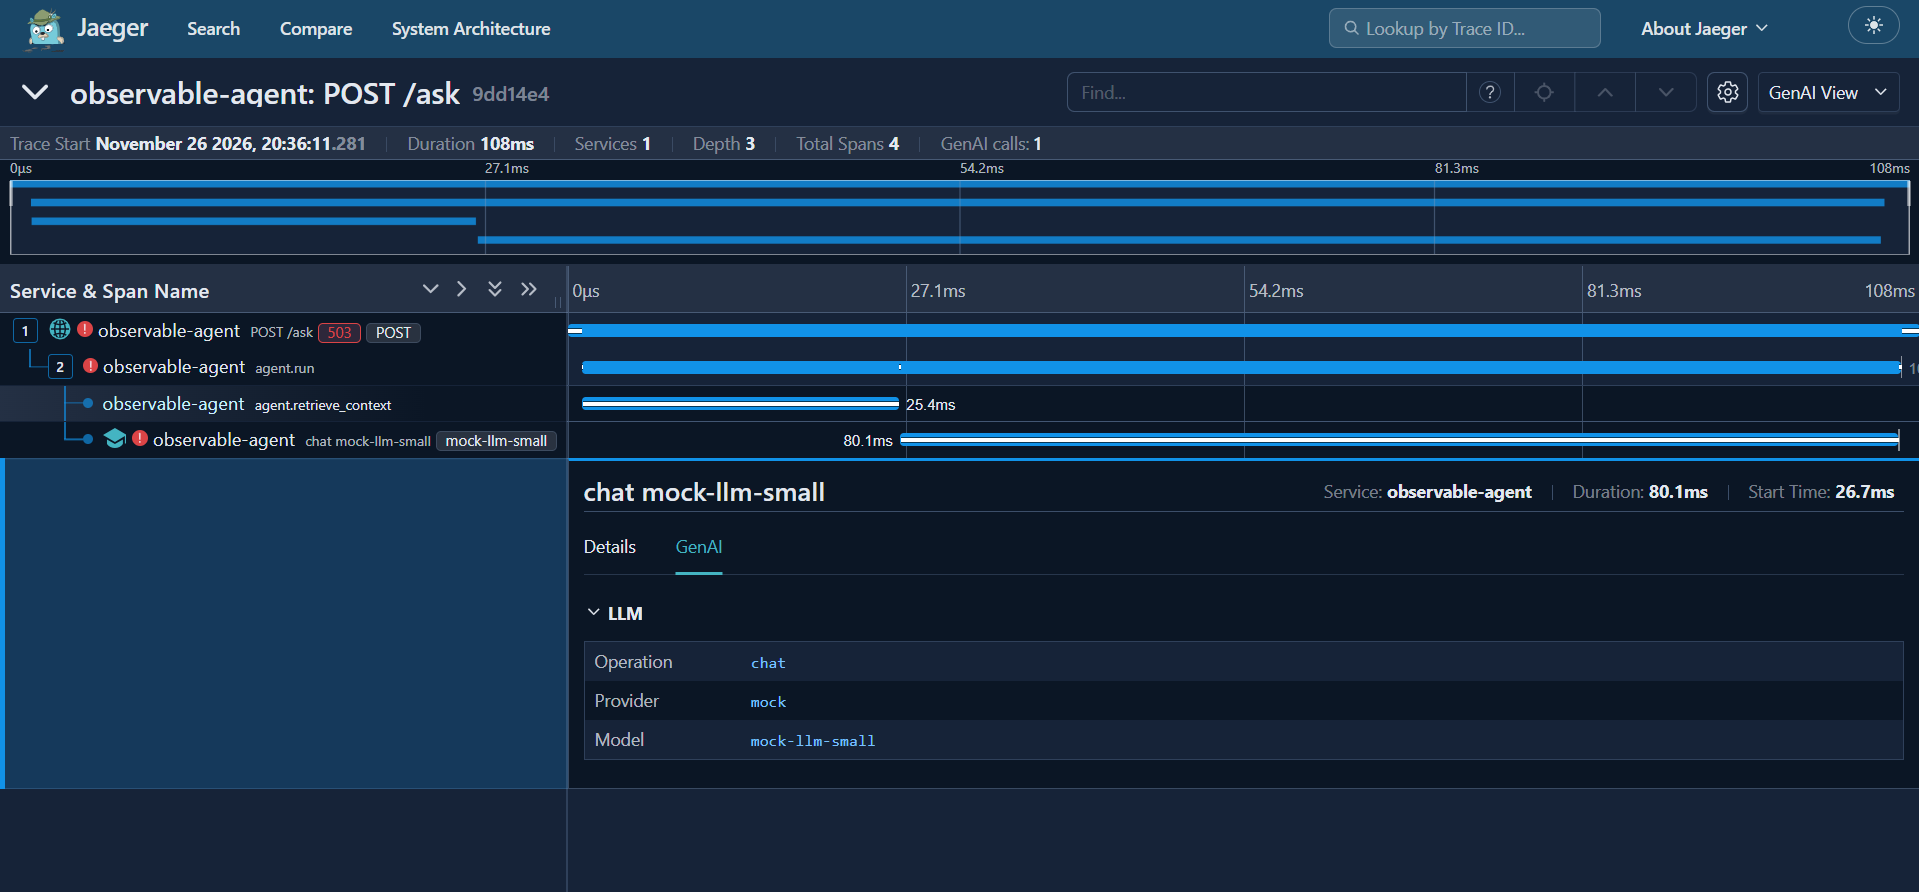
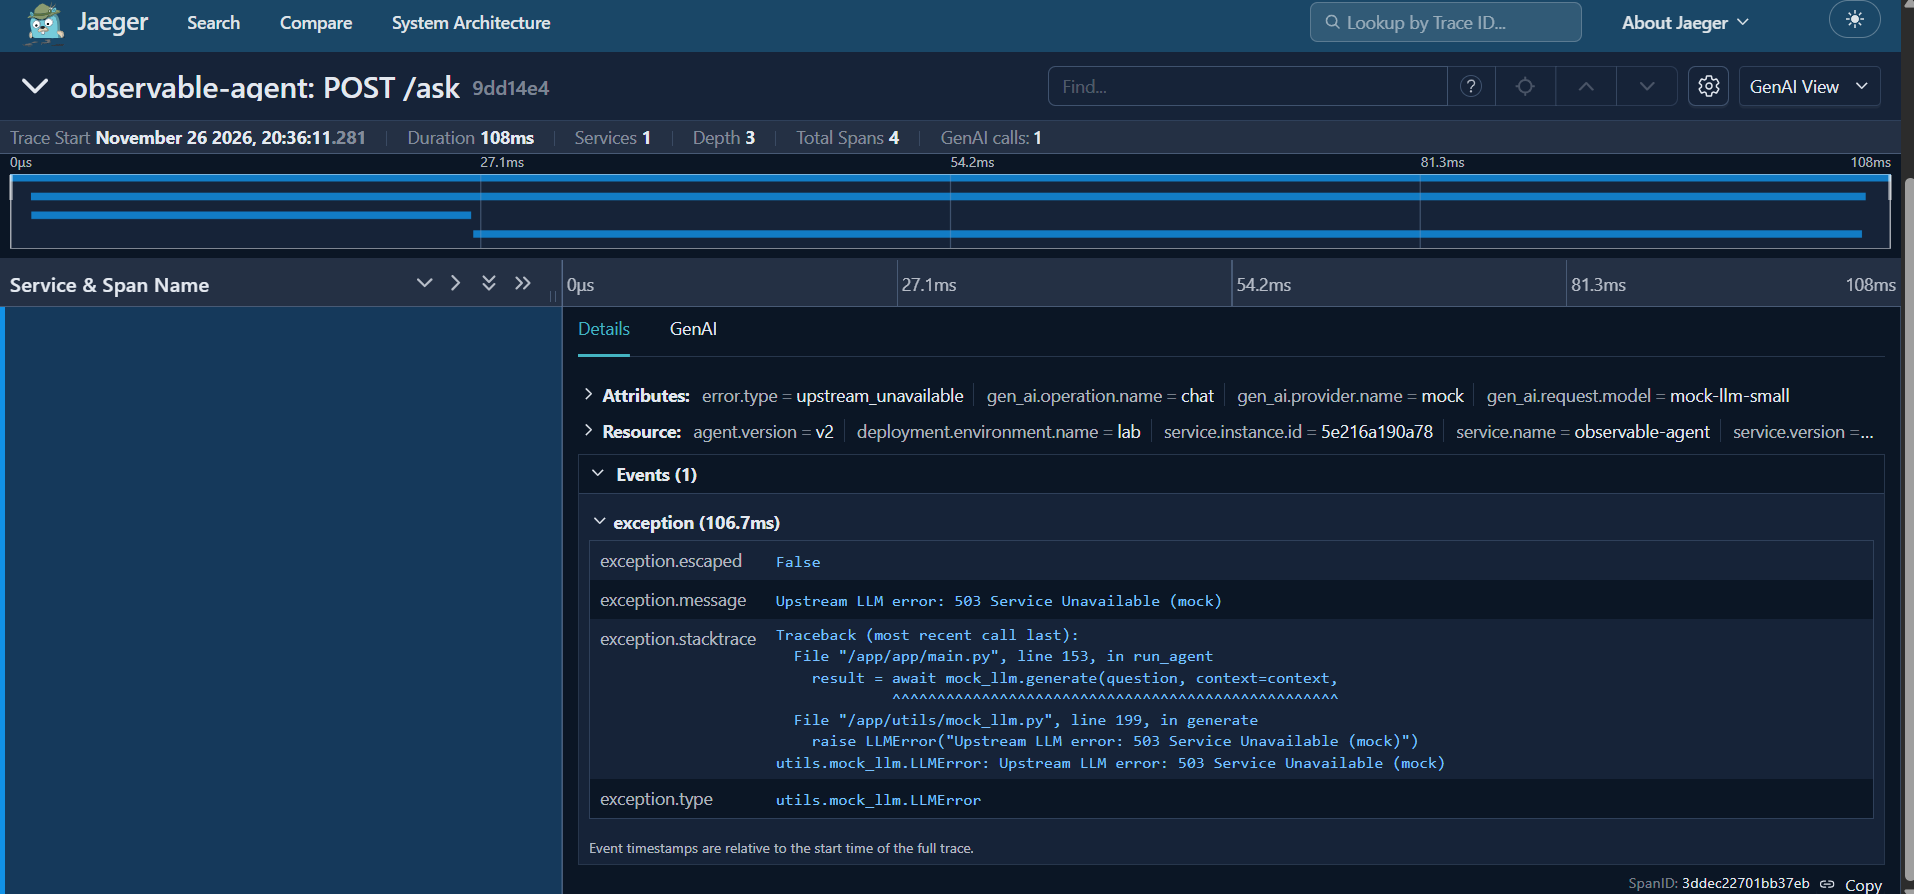
Show exception event in Jaeger screenshot

Changed region(s): [[0.0, 0.0, 1.0, 1.0]]

diff --git a/BENCHMARK_REPORT.md b/BENCHMARK_REPORT.md
@@ -72,7 +72,7 @@
 
 - [x] `screenshots/grafana-dashboard.png`: Dashboard Grafana khi đang có tải (Golden Signals).
 - [x] `screenshots/jaeger-slow-trace.png`: trace chậm `70d885ec363a3a6d3451c42ec1cb54ad`.
-- [ ] `screenshots/jaeger-error-trace.png`: ảnh hiện có cho thấy HTTP 503 và span lỗi; cần chụp lại với event `exception` đang mở trong trace `9dd14e4c6eb555d6493b17842edb0549`.
+- [x] `screenshots/jaeger-error-trace.png`: trace lỗi `9dd14e4c6eb555d6493b17842edb0549`, phần Details hiển thị event `exception` và upstream mock 503.
 - [ ] `screenshots/prometheus-alert-firing.png`: trang Prometheus Alerts. API đã xác nhận `AgentHighErrorRate` và `AgentHighLatencyP95` cùng firing lúc 20:44:06 (GMT+7); ảnh cần chụp trong lượt tải tiếp theo.
 
 ### 4.2 Thí nghiệm "phá hệ thống"
